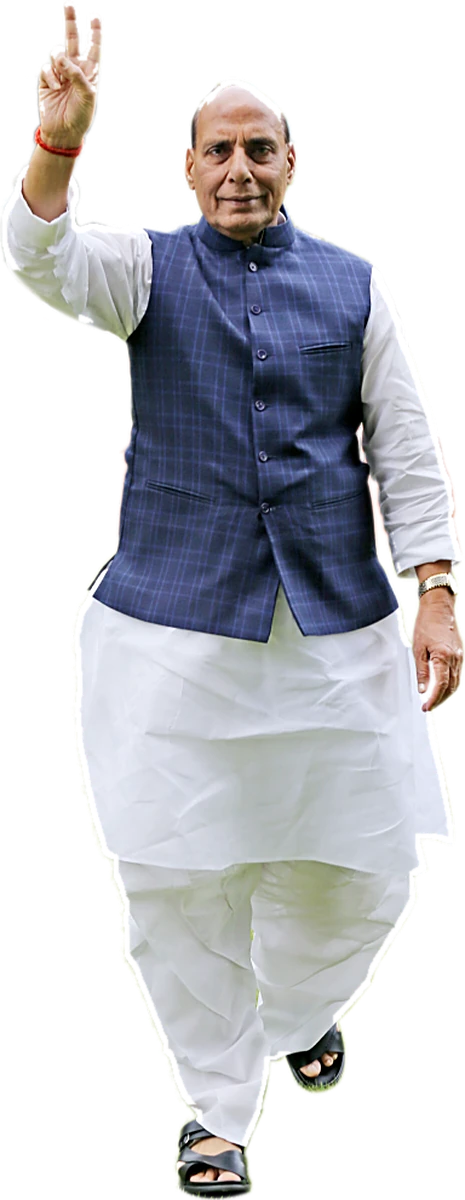
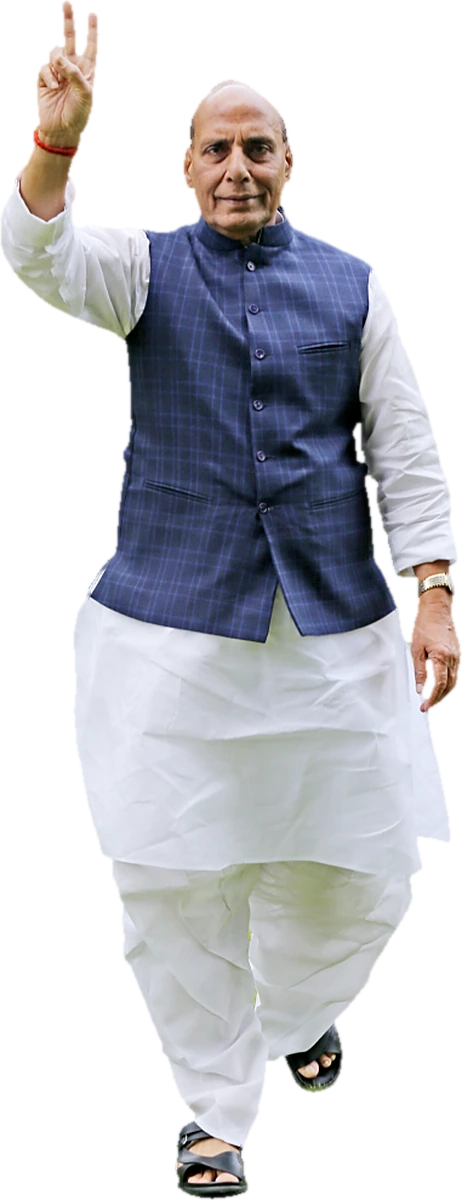
feat: state filter picker, clean leader photos, secrets out of code
- Start screen: the six busiest states on the card plus an all-states panel
  with search (replaces the native drop-down that showed white-on-white)
- Yogi and Rajnath cut-outs redone from the originals (no dark/grey halo,
  no dark spots on the hand); leaders no longer dimmed on the start screen
- MongoDB connection string only from .env / host env vars (hardcoded
  password removed from server.js and import-csv-to-mongo.js)
- TLS certificate checking back on for MongoDB
- Mongo loader keeps "RT @" so retweets are not counted as original posts
- README: state shows and .env setup

diff --git a/app/nazar.html b/app/nazar.html
@@ -64,12 +64,14 @@ button,input{font-family:inherit;color:inherit}
    back Nitin Nabin ji (far left) and Rajnath Singh ji (far right). Positions are the
    centre of each figure; heights keep faces of one row the same size. Nitin ji's photo
    is a half-length shot, so it is smaller and raised, fading out at the waist. */
+/* no brightness dimming and full opacity on the start / glance screens: a see-through
+   or darkened photo over the maroon sky turns faces and clothes brown */
 .hero-side{bottom:2%;z-index:4;opacity:var(--heroSide);
-  -webkit-filter:brightness(.95) drop-shadow(0 0 2rem rgba(255,153,51,.35));filter:brightness(.95) drop-shadow(0 0 2rem rgba(255,153,51,.35))}
+  -webkit-filter:drop-shadow(0 0 2rem rgba(255,153,51,.3));filter:drop-shadow(0 0 2rem rgba(255,153,51,.3))}
 .hero-side img{-webkit-mask-image:linear-gradient(to top,rgba(0,0,0,0) 0%,#000 14%);mask-image:linear-gradient(to top,rgba(0,0,0,0) 0%,#000 14%)}
 .hero-side.l{height:82%;left:26%}
 .hero-side.r{height:82%;left:74%}
-.hero-side.l2,.hero-side.r2{z-index:3;-webkit-filter:brightness(.86) drop-shadow(0 0 1.6rem rgba(255,153,51,.3));filter:brightness(.86) drop-shadow(0 0 1.6rem rgba(255,153,51,.3))}
+.hero-side.l2,.hero-side.r2{z-index:3;-webkit-filter:drop-shadow(0 0 1.6rem rgba(255,153,51,.26));filter:drop-shadow(0 0 1.6rem rgba(255,153,51,.26))}
 .hero-side.l2{height:44%;bottom:31%;left:10%}
 .hero-side.l2 img{-webkit-mask-image:linear-gradient(to top,rgba(0,0,0,0) 0%,#000 22%);mask-image:linear-gradient(to top,rgba(0,0,0,0) 0%,#000 22%)}
 .hero-side.r2{height:73%;left:90%}
@@ -82,7 +84,7 @@ body.choosing .hero-side.r2{height:60%}
 .hero-main,.hero-side{transition:opacity 1.2s ease,height .8s ease,bottom .8s ease}
 /* screens narrower than 3:2 (4:3 TVs, tablets): only the front and middle rows fit */
 @media (max-aspect-ratio:3/2){.hero-side.l2,.hero-side.r2{display:none}.hero-side.l{left:18%}.hero-side.r{left:82%}}
-body.hero-hi{--heroMain:.97;--heroSide:.88}
+body.hero-hi{--heroMain:1;--heroSide:1}
 body.hero-mid{--heroMain:.55;--heroSide:.45}
 
 /* ---------- frame ---------- */
@@ -300,15 +302,50 @@ body.reduced .in-lotus,body.reduced .in-spark,body.reduced .in-burst,body.reduce
 .ch-all:hover,.ch-all:focus{border-color:var(--gold);outline:none;-webkit-transform:translateY(-.3rem);transform:translateY(-.3rem)}
 .ch-one{width:62rem}
 /* state picker (inside the "full picture" card) + the state pill in the header */
-.ch-st{margin-top:1.3rem}
-.ch-st-k{font-size:1.15rem;font-weight:700;letter-spacing:.05rem;color:var(--dim);margin-bottom:.7rem}
-.ch-st-list{display:flex;flex-wrap:wrap;align-items:center}
-.ch-st-list button,.ch-st-list select{margin:0 .6rem .6rem 0;height:3rem;padding:0 1.1rem;border-radius:2rem;border:.08rem solid var(--line);background:rgba(255,255,255,.06);
-  font-family:var(--deva);font-size:1.2rem;font-weight:700;cursor:pointer;color:var(--text)}
-.ch-st-list select{background:#2a0a03;padding-right:.6rem}
-.ch-st-list button:hover,.ch-st-list button:focus,.ch-st-list select:focus{border-color:var(--gold);outline:none;background-color:rgba(255,153,51,.2)}
-.ch-st-list button.on{background:linear-gradient(135deg,#E65100,#FF9933);border-color:transparent}
-.ch-st-list button.all{border-color:rgba(255,200,87,.55);color:var(--gold)}
+.ch-st{margin-top:1.5rem;padding-top:1.3rem;border-top:.08rem solid rgba(255,200,87,.16)}
+.ch-st-k{display:flex;align-items:center;font-family:var(--head),var(--deva);font-weight:700;font-size:1.15rem;letter-spacing:.14rem;text-transform:uppercase;color:var(--gold);margin-bottom:.9rem}
+.ch-st-k svg{width:1.3rem;height:1.3rem;fill:var(--gold);margin-right:.6rem;flex:0 0 auto}
+.ch-st-list{display:grid;grid-template-columns:1fr 1fr;grid-gap:.6rem}
+.st-chip{display:flex;align-items:center;justify-content:space-between;height:3.4rem;padding:0 1rem 0 1.15rem;border-radius:.9rem;
+  border:.08rem solid rgba(255,200,87,.18);background:linear-gradient(180deg,rgba(255,255,255,.08),rgba(255,255,255,.02));
+  color:var(--text);font-family:var(--deva);font-weight:700;font-size:1.25rem;text-align:left;cursor:pointer;white-space:nowrap;overflow:hidden;
+  transition:border-color .15s,background-color .15s,-webkit-transform .15s;transition:border-color .15s,background-color .15s,transform .15s}
+.st-chip span{overflow:hidden;text-overflow:ellipsis}
+.st-chip small{flex:0 0 auto;font-family:var(--head);font-size:1.05rem;font-weight:600;color:var(--dim);margin-left:.6rem}
+.st-chip:hover,.st-chip:focus{border-color:var(--gold);background-color:rgba(255,153,51,.18);outline:none;-webkit-transform:translateY(-.1rem);transform:translateY(-.1rem)}
+.st-chip.on{background:linear-gradient(135deg,#E65100,#FF9933);border-color:transparent}
+.st-chip.on small{color:rgba(255,255,255,.85)}
+.st-chip.all{color:var(--gold)}
+.st-chip.more{grid-column:1 / -1;justify-content:center;border-style:dashed;border-color:rgba(255,200,87,.45);color:var(--gold);background:rgba(255,153,51,.08)}
+.st-chip.more svg{width:1.3rem;height:1.3rem;margin-left:.6rem;fill:none;stroke:var(--gold);stroke-width:2.6;stroke-linecap:round;stroke-linejoin:round}
+/* all-states panel (replaces the browser's own drop-down, which TVs and Windows draw white-on-white) */
+.st-panel{position:fixed;top:0;left:0;right:0;bottom:0;z-index:45;background:rgba(14,4,2,.8);display:flex;align-items:center;justify-content:center}
+.st-box{width:100rem;max-width:94%;max-height:86%;display:flex;flex-direction:column;padding:2.4rem 2.6rem 2.6rem;border-radius:2rem;
+  background:linear-gradient(180deg,#3d1407 0%,#220904 100%);border:.1rem solid rgba(255,200,87,.35);box-shadow:0 3rem 8rem rgba(0,0,0,.65),inset 0 .1rem 0 rgba(255,200,87,.2)}
+.st-top{display:flex;align-items:center;margin-bottom:.6rem}
+.st-top h2{flex:1 1 auto;font-family:var(--deva);font-weight:800;font-size:3rem;line-height:1.1}
+.st-sub{font-size:1.25rem;color:var(--muted);margin-bottom:1.6rem}
+.st-find{width:30rem;height:4.2rem;border-radius:1.1rem;border:.1rem solid var(--line);background:rgba(0,0,0,.35);padding:0 1.3rem;font-size:1.5rem;color:var(--text);outline:none;margin-right:1rem}
+.st-find:focus{border-color:var(--gold)}
+.st-x{width:4.2rem;height:4.2rem;border-radius:50%;border:.1rem solid var(--line);background:rgba(255,255,255,.06);cursor:pointer;display:flex;align-items:center;justify-content:center;flex:0 0 auto}
+.st-x svg{width:1.8rem;height:1.8rem;fill:none;stroke:var(--text);stroke-width:2.4;stroke-linecap:round}
+.st-x:hover,.st-x:focus{border-color:var(--gold);outline:none}
+/* rows never shrink below their content (an overflow:hidden item may otherwise collapse when the list is long) */
+.st-grid{flex:1 1 auto;min-height:0;overflow-y:auto;display:grid;grid-template-columns:repeat(4,1fr);grid-auto-rows:max-content;align-content:start;grid-gap:.9rem;padding:.2rem .4rem .2rem .2rem}
+.st-item{position:relative;overflow:hidden;text-align:left;padding:1.15rem 1.3rem 1.4rem;border-radius:1.1rem;cursor:pointer;color:var(--text);
+  border:.08rem solid rgba(255,200,87,.16);background:rgba(255,255,255,.05);transition:border-color .15s,background-color .15s}
+.st-item b{display:block;font-family:var(--deva);font-weight:700;font-size:1.55rem;white-space:nowrap;overflow:hidden;text-overflow:ellipsis}
+.st-item span{display:block;font-size:1.05rem;color:var(--dim);margin-top:.25rem}
+.st-item i{position:absolute;left:0;bottom:0;height:.3rem;background:linear-gradient(90deg,#E65100,#FFC857)}
+.st-item:hover,.st-item:focus{border-color:var(--gold);background-color:rgba(255,153,51,.16);outline:none}
+.st-item.on{border-color:var(--gold);background-color:rgba(255,153,51,.26)}
+.st-item.all b{color:var(--gold)}
+.st-grid::-webkit-scrollbar{width:.6rem}
+.st-grid::-webkit-scrollbar-track{background:rgba(255,255,255,.04);border-radius:.6rem}
+.st-grid::-webkit-scrollbar-thumb{background:rgba(255,200,87,.45);border-radius:.6rem}
+.st-empty{grid-column:1 / -1;font-size:1.4rem;color:var(--dim);padding:1rem 0}
+body.portrait .st-grid{grid-template-columns:1fr 1fr} body.portrait .st-find{width:auto;flex:1 1 auto;min-width:0}
+body.portrait .st-top{flex-wrap:wrap} body.portrait .st-top h2{width:100%;margin-bottom:1rem}
 .stpill{border-color:rgba(255,200,87,.6);background:rgba(255,153,51,.22);color:#FFE3A3}
 .stpill svg{width:1.4rem;height:1.4rem;margin-right:.6rem;fill:var(--gold);flex:0 0 auto}
 .ch-k{font-family:var(--head);font-weight:700;font-size:1.3rem;letter-spacing:.2rem;text-transform:uppercase;color:var(--gold)}
@@ -607,7 +644,7 @@ body.portrait .in-stats{flex-direction:column}
   <div class="ch-cards">
     <div class="ch-card ch-all" id="chAll" tabindex="0" role="button">
       <div class="ch-k" id="chAllK"></div><div class="ch-t" id="chAllT"></div><div class="ch-d" id="chAllD"></div>
-      <div class="ch-st hidden" id="chSt"><div class="ch-st-k" id="chStK"></div><div class="ch-st-list" id="chStList"></div></div>
+      <div class="ch-st hidden" id="chSt"><div class="ch-st-k"><svg viewBox="0 0 24 24"><path d="M12 2C8 2 5 5.1 5 9c0 5.3 7 13 7 13s7-7.7 7-13c0-3.9-3-7-7-7zm0 9.6a2.6 2.6 0 1 1 0-5.2 2.6 2.6 0 0 1 0 5.2z"/></svg><span id="chStK"></span></div><div class="ch-st-list" id="chStList"></div></div>
       <div class="ch-go"><svg class="ch-ring" viewBox="0 0 36 36"><circle cx="18" cy="18" r="15" stroke="rgba(255,255,255,.15)"/><circle id="chRing" cx="18" cy="18" r="15" stroke="#FFC857" stroke-dasharray="94.25" stroke-dashoffset="0" transform="rotate(-90 18 18)"/></svg><span id="chGo"></span></div>
     </div>
     <div class="ch-card ch-one">
@@ -617,6 +654,13 @@ body.portrait .in-stats{flex-direction:column}
       <div class="ch-list" id="chList"></div>
       <div class="ch-recent" id="chRecent"></div>
       <div class="ch-hint" id="chHint"></div>
+    </div>
+  </div>
+  <div class="st-panel hidden" id="stPanel" role="dialog" aria-modal="true" aria-labelledby="stTitle">
+    <div class="st-box">
+      <div class="st-top"><h2 id="stTitle"></h2><input class="st-find" id="stFind" type="text" autocomplete="off"><button class="st-x" id="stClose" type="button" aria-label="Close"><svg viewBox="0 0 24 24"><path d="M6 6l12 12M18 6L6 18"/></svg></button></div>
+      <div class="st-sub" id="stSub"></div>
+      <div class="st-grid" id="stGrid"></div>
     </div>
   </div>
 </div>
@@ -677,9 +721,9 @@ body.portrait .in-stats{flex-direction:column}
   var HERO = {
     heroM: ['/live/img/leaders/modi-standing.webp', 'Narendra Modi'],
     heroL: ['/live/img/leaders/amit-shah-standing.webp', 'Amit Shah'],
-    heroR: ['/live/img/leaders/yogi-standing-v2.webp', 'Yogi Adityanath'],
+    heroR: ['/live/img/leaders/yogi-standing-v2.webp?v=3', 'Yogi Adityanath'],
     heroL2: ['/live/img/leaders/nitin-nabin-standing.webp?v=2', 'Nitin Nabin'],
-    heroR2: ['/live/img/leaders/rajnath-singh-standing.webp', 'Rajnath Singh']
+    heroR2: ['/live/img/leaders/rajnath-singh-standing.webp?v=3', 'Rajnath Singh']
   };
   var BJP_LOGO = '/live/img/p/BJP';
   var LOTUS = '<svg viewBox="0 0 100 100"><g transform="translate(50,78)" fill="#fff"><path d="M0,0 C-8,-22 -5,-44 0,-54 C5,-44 8,-22 0,0Z"/><path d="M0,0 C-8,-22 -5,-44 0,-54 C5,-44 8,-22 0,0Z" transform="rotate(-30) scale(.9)"/><path d="M0,0 C-8,-22 -5,-44 0,-54 C5,-44 8,-22 0,0Z" transform="rotate(30) scale(.9)"/><path d="M0,0 C-8,-22 -5,-44 0,-54 C5,-44 8,-22 0,0Z" transform="rotate(-60) scale(.75)"/><path d="M0,0 C-8,-22 -5,-44 0,-54 C5,-44 8,-22 0,0Z" transform="rotate(60) scale(.75)"/></g></svg>';
@@ -819,7 +863,14 @@ body.portrait .in-stats{flex-direction:column}
     'Andaman and Nicobar': 'अंडमान और निकोबार', 'Lakshadweep': 'लक्षद्वीप', 'Dadra and Nagar Haveli and Daman and Diu': 'दादरा नगर हवेली और दमन दीव'
   };
   T.en.stPick = 'Or follow one state'; T.hi.stPick = 'या एक राज्य पर नज़र रखें';
-  T.en.stMore = 'More states…'; T.hi.stMore = 'और राज्य…';
+  T.en.stMore = 'See all {n} states'; T.hi.stMore = 'सभी {n} राज्य देखें';
+  T.en.stTitle = 'Choose a state'; T.hi.stTitle = 'राज्य चुनें';
+  T.en.stSub = 'Nazar will show only this state — its parties, leaders, posts and news. Busiest first.';
+  T.hi.stSub = 'नज़र सिर्फ़ इसी राज्य को दिखाएगा — इसकी पार्टियाँ, नेता, पोस्ट और ख़बरें। सबसे सक्रिय पहले।';
+  T.en.stFind = 'Search a state…'; T.hi.stFind = 'राज्य खोजें…';
+  T.en.stPosts = '{n} posts in the data'; T.hi.stPosts = 'डेटा में {n} पोस्ट';
+  T.en.stNone = 'No state with that name in this data.'; T.hi.stNone = 'इस डेटा में इस नाम का कोई राज्य नहीं।';
+  T.en.stAllSub = 'Back to the whole country'; T.hi.stAllSub = 'पूरे देश पर वापस';
   T.en.stAll = 'All India'; T.hi.stAll = 'पूरा भारत';
   if (STATE) {
     var stHi = STATE_HI[STATE] || STATE;
@@ -1441,9 +1492,10 @@ body.portrait .in-stats{flex-direction:column}
     $('chRing').setAttribute('stroke-dashoffset', String(94.25 * (1 - (chLeft || 0) / CHOOSER_AUTO_S)));
     if (chLeft !== null) chLeft--;
   }
-  /* state picker: the busiest states as buttons, the rest in a list. Choosing one
-     reopens Nazar for that state (every screen, the search and the news). */
-  var stList = null, ST_TOP = 8;
+  /* state picker: the six busiest states on the card, every state in a panel with
+     search. Choosing one reopens Nazar for that state (every screen, the search and
+     the news). No native <select>: its pop-up list ignores the page's colours. */
+  var stList = null, ST_TOP = 6;
   function loadStates() {
     if (stList || DEMO || state.stP) { if (stList) renderStates(); return; }
     state.stP = fetch('/api/live-states', { credentials: 'same-origin', cache: 'no-store' })
@@ -1455,29 +1507,69 @@ body.portrait .in-stats{flex-direction:column}
     var keep = location.search.replace(/^\?/, '').split('&').filter(function (kv) { return kv && !/^(scope|h|mode)=/.test(kv); });
     location.href = location.pathname + '?' + keep.concat(sc === 'all' ? [] : ['scope=' + encodeURIComponent(sc)]).concat(['mode=all']).join('&');
   }
+  function pickScope(sc) { if (sc === 'st:' + STATE) { closeStates(); startShow('all'); } else goScope(sc); }
   function renderStates() {
     if (!stList) return;
-    var top = stList.slice(0, ST_TOP), rest = stList.slice(ST_TOP);
-    if (STATE && !top.some(function (s) { return s.state === STATE; })) top.push({ state: STATE });
-    var h = (STATE ? '<button type="button" class="all" data-sc="all">' + esc(t('stAll')) + '</button>' : '')
-      + top.map(function (s) { return '<button type="button" data-sc="st:' + esc(s.state) + '"' + (s.state === STATE ? ' class="on"' : '') + '>' + esc(stName(s.state)) + '</button>'; }).join('');
-    if (rest.length) {
-      h += '<select id="chStSel"><option value="">' + esc(t('stMore')) + '</option>'
-        + rest.slice().sort(function (a, b) { return stName(a.state) < stName(b.state) ? -1 : 1; })
-            .map(function (s) { return '<option value="st:' + esc(s.state) + '">' + esc(stName(s.state)) + '</option>'; }).join('') + '</select>';
-    }
+    var top = stList.slice(0, ST_TOP);
+    if (STATE && !top.some(function (s) { return s.state === STATE; })) top = top.slice(0, ST_TOP - 1).concat(stList.filter(function (s) { return s.state === STATE; }));
+    if (STATE) top = [{ all: true }].concat(top.slice(0, ST_TOP - 1));
+    var h = top.map(function (s) {
+      if (s.all) return '<button type="button" class="st-chip all" data-sc="all"><span>' + esc(t('stAll')) + '</span></button>';
+      return '<button type="button" class="st-chip' + (s.state === STATE ? ' on' : '') + '" data-sc="st:' + esc(s.state) + '"><span>' + esc(stName(s.state)) + '</span><small>' + esc(fmtShort(s.posts)) + '</small></button>';
+    }).join('');
+    h += '<button type="button" class="st-chip more" id="chStMore"><span>' + esc(fill(t('stMore'), { n: stList.length })) + '</span><svg viewBox="0 0 24 24"><path d="M9 6l6 6-6 6"/></svg></button>';
     $('chStK').textContent = t('stPick'); $('chStList').innerHTML = h; $('chSt').className = 'ch-st';
-    function stopIt(e) { e.stopPropagation(); holdChooser(); }
     [].forEach.call($('chStList').querySelectorAll('button'), function (b) {
-      b.onclick = function (e) { stopIt(e); var sc = b.getAttribute('data-sc'); if (sc === 'st:' + STATE) startShow('all'); else goScope(sc); };
-      b.onkeydown = function (e) { e.stopPropagation(); };
+      b.onclick = function (e) {
+        e.stopPropagation(); holdChooser();
+        if (b.id === 'chStMore') openStates(); else pickScope(b.getAttribute('data-sc'));
+      };
+      b.onkeydown = function (e) { e.stopPropagation(); };          // Enter here must not start the All-India card
     });
-    var sel = $('chStSel');
-    if (sel) {
-      sel.onclick = stopIt; sel.onkeydown = function (e) { e.stopPropagation(); holdChooser(); };
-      sel.onchange = function () { if (sel.value) goScope(sel.value); };
-    }
+    if ($('stPanel').className.indexOf('hidden') < 0) renderStateGrid();
   }
+  function openStates() {
+    if (!stList) return;
+    holdChooser();
+    $('stTitle').textContent = t('stTitle'); $('stSub').textContent = t('stSub');
+    $('stFind').placeholder = t('stFind'); $('stFind').value = '';
+    $('stPanel').className = 'st-panel'; renderStateGrid();
+    setTimeout(function () { try { $('stFind').focus(); } catch (e) {} }, 50);
+  }
+  function closeStates() { $('stPanel').className = 'st-panel hidden'; }
+  function renderStateGrid() {
+    $('stTitle').textContent = t('stTitle'); $('stSub').textContent = t('stSub'); $('stFind').placeholder = t('stFind');
+    var v = $('stFind').value.trim().toLowerCase(), max = stList.length ? stList[0].posts : 1;
+    var list = stList.filter(function (s) { return !v || s.state.toLowerCase().indexOf(v) >= 0 || (STATE_HI[s.state] || '').indexOf(v) >= 0; });
+    var h = (STATE && !v ? '<button type="button" class="st-item all" data-sc="all"><b>' + esc(t('stAll')) + '</b><span>' + esc(t('stAllSub')) + '</span></button>' : '')
+      + list.map(function (s) {
+        return '<button type="button" class="st-item' + (s.state === STATE ? ' on' : '') + '" data-sc="st:' + esc(s.state) + '"><b>' + esc(stName(s.state)) + '</b>'
+          + '<span>' + esc(fill(t('stPosts'), { n: fmtInt(s.posts) })) + '</span><i style="width:' + Math.max(3, Math.round(100 * s.posts / max)) + '%"></i></button>';
+      }).join('');
+    $('stGrid').innerHTML = h || '<div class="st-empty">' + esc(t('stNone')) + '</div>';
+    [].forEach.call($('stGrid').querySelectorAll('.st-item'), function (b) { b.onclick = function () { pickScope(b.getAttribute('data-sc')); }; });
+  }
+  $('stFind').addEventListener('input', renderStateGrid);
+  $('stFind').addEventListener('keydown', function (e) {
+    e.stopPropagation();
+    if (e.key === 'Escape' || e.key === 'Esc') closeStates();
+    else if (e.key === 'Enter') { var f = $('stGrid').querySelector('.st-item'); if (f) f.click(); }
+    else if (e.key === 'ArrowDown' || e.key === 'Down') { var g = $('stGrid').querySelector('.st-item'); if (g) { g.focus(); e.preventDefault(); } }
+  });
+  /* arrow keys move through the grid (TV remotes), Escape closes */
+  $('stGrid').addEventListener('keydown', function (e) {
+    var items = [].slice.call($('stGrid').querySelectorAll('.st-item')), i = items.indexOf(document.activeElement);
+    if (e.key === 'Escape' || e.key === 'Esc') { closeStates(); return; }
+    if (i < 0) return;
+    var cols = document.body.className.indexOf('portrait') >= 0 ? 2 : 4, k = e.key, j = i;
+    if (k === 'ArrowRight' || k === 'Right') j = i + 1; else if (k === 'ArrowLeft' || k === 'Left') j = i - 1;
+    else if (k === 'ArrowDown' || k === 'Down') j = i + cols; else if (k === 'ArrowUp' || k === 'Up') j = i - cols; else return;
+    e.preventDefault();
+    if (j < 0) { $('stFind').focus(); return; }
+    if (items[Math.min(j, items.length - 1)]) items[Math.min(j, items.length - 1)].focus();
+  });
+  $('stClose').onclick = closeStates;
+  $('stPanel').addEventListener('click', function (e) { if (e.target === $('stPanel')) closeStates(); });
   function holdChooser() { if (chLeft !== null) { chLeft = null; clearInterval(chT); $('chGo').textContent = t('chGoNow'); $('chRing').setAttribute('stroke-dashoffset', '0'); } }
   function stopChooser() { clearInterval(chT); chT = null; }
   function doSearch() {

diff --git a/server.js b/server.js
@@ -53,13 +53,11 @@ LIVE.C.BASE_DAYS = 7;
 LIVE.C.BASE_MIN_DAYS = 3;
 LIVE.C.BREAK_BASE_DAYS = 6;
 
-var MONGO_URI = process.env.MONGODB_URI || 'mongodb+srv://harshit22oct_db_user:harshit22oct5094@cluster0.hjn4toa.mongodb.net/';
+/* The connection string (with its password) comes ONLY from .env or the host's
+   environment variables -- never from this file, which goes to GitHub. */
+var MONGO_URI = process.env.MONGODB_URI || '';
 var DB_NAME = process.env.DB_NAME || 'nazar';
 var COLL_NAME = process.env.COLL_NAME || 'tweets';
-
-if (process.env.NODE_TLS_REJECT_UNAUTHORIZED === undefined) {
-  process.env.NODE_TLS_REJECT_UNAUTHORIZED = '0';
-}
 
 /* ------------------------------------------------------------ Data loading (Mongo / CSV) */
 var KEEP = ['Handle', 'Tweet URL', 'Tweet ID', 'Tweet Date', 'Tweet Text', 'Total Comments', 'Total Likes',
@@ -92,6 +90,7 @@ function readCsv(file, onRow) {
 }
 
 async function loadFromMongo() {
+  if (!MONGO_URI) throw new Error('MONGODB_URI is not set -- put it in .env (see .env.example) or in the host\'s environment variables');
   var { MongoClient } = require('mongodb');
   console.log('  Connecting to MongoDB Atlas (' + DB_NAME + '.' + COLL_NAME + ')...');
   var client = new MongoClient(MONGO_URI);
@@ -112,7 +111,7 @@ async function loadFromMongo() {
     var doc = await cursor.next();
     // Memory optimization: retweets only need 'RT' marker as their text is never displayed
     if (doc['Tweet Text'] && doc['Tweet Text'].startsWith('RT @')) {
-      doc['Tweet Text'] = 'RT';
+      doc['Tweet Text'] = 'RT @';      // must still start with "RT @": that is how live_lib (HA.isRetweet) tells a re-post from an original
     }
     var cs = LIVE.stateOf(doc.State);
     if (cs) doc.State = cs;

diff --git a/import-csv-to-mongo.js b/import-csv-to-mongo.js
@@ -1,7 +1,6 @@
 // import-csv-to-mongo.js
 // CSV data ko MongoDB Atlas mein import karta hai
 'use strict';
-process.env.NODE_TLS_REJECT_UNAUTHORIZED = '0'; // SSL cert bypass
 
 var fs = require('fs');
 var path = require('path');
@@ -24,7 +23,9 @@ try {
   }
 } catch (e) {}
 
-var MONGO_URI = process.env.MONGODB_URI || 'mongodb+srv://harshit22oct_db_user:harshit22oct5094@cluster0.hjn4toa.mongodb.net/';
+// password sirf .env se aata hai -- is file me kabhi mat likho (ye GitHub par jaati hai)
+var MONGO_URI = process.env.MONGODB_URI || '';
+if (!MONGO_URI) { console.error('MONGODB_URI .env me nahi mila -- .env.example dekho.'); process.exit(1); }
 var DB_NAME   = process.env.DB_NAME || 'nazar';
 var COLL_NAME = process.env.COLL_NAME || 'tweets';
 var DATA      = path.join(__dirname, 'data');

diff --git a/README.md b/README.md
@@ -15,7 +15,8 @@ The Pulse project is not touched by this folder.
 ## MongoDB & Cloud Deployment
 - **MongoDB Atlas Integration**: Data is stored in MongoDB Atlas (`nazar.tweets`).
 - When running without local CSV files (e.g., deployed to **Railway**, **Render**, or **Vercel**), `server.js` automatically connects to MongoDB Atlas.
-- Configure `.env` with:
+- The connection string is read **only** from `.env` locally, or from the hosting site's environment variables. Never write it in a `.js` file, because those go to GitHub. `.env` is in `.gitignore`.
+- Configure `.env` (copy `.env.example`) with:
   ```env
   MONGODB_URI=your_mongodb_connection_string
   USE_MONGO=true
@@ -29,7 +30,8 @@ Useful links:
 
 | Link | What it shows |
 |---|---|
-| `/live` | Start screen: choose All India or one leader |
+| `/live` | Start screen: choose All India, one state, or one leader |
+| `/live?scope=st:Bihar` | A state show: every screen, the leader search and the news are about that state only |
 | `/live?mode=all` | Goes straight to the All-India show |
 | `/live?h=myogiadityanath` | A leader's personal channel (any handle) |
 | `/live?kiosk=1` | Hides the buttons (for a TV that just plays) |
@@ -52,13 +54,24 @@ Keys: ← → change screen · Space pauses · F goes full screen · L switches 
 
 ## What is in the folder
 - `server.js` is the small web server. It loads the CSVs into memory and answers the page's three data calls.
-- `app/nazar.html` is the Nazar page. It is a copy of `DASHBOARD/live_monitor.html` with three small additions:
-  - the recorded-data banner;
+- `app/nazar.html` is the Nazar page. It started as a copy of `DASHBOARD/live_monitor.html`. It has these additions:
+  - the recorded-data banner (search for `PROTO`);
   - no "Back to dashboard" button;
-  - the latest-post time shown as a date.
-- `app/live_lib.js`, `ha_lib.js`, `news_lib.js` and `mapping_lib.js` are copied unchanged from Pulse. All the counting rules are the same as in Pulse.
+  - the latest-post time shown as a date;
+  - the **state filter** (search for `STATE`):
+    - the state picker on the start screen and the all-states panel with search;
+    - the state label in the header;
+    - the state glowing on the intro map;
+    - state wording in the titles;
+  - brighter leader photos on the start screen.
+- `app/ha_lib.js`, `news_lib.js` and `mapping_lib.js` are copied unchanged from Pulse.
+  - `app/live_lib.js` is the same as Pulse, except that any state can be a scope (`st:<State>`), and the "most active state" sentence is skipped inside a state.
+  - All the counting rules are the same as in Pulse.
+- In `server.js`:
+  - `/api/live-states` lists the states that have at least 200 posts in the data;
+  - a state's news ticker shows that state's own media posts first, then national ones.
 - `app/data/handle_master.json` is the leader list. Search, party, constituency and rivals come from it.
 - `app/live_assets/` holds the photos and party logos. See `leaders/ATTRIBUTION.md`.
   - Several leader photos were supplied by the project owner. Their usage rights must be confirmed before any public showing.
 
-Copied from Pulse on 22 Oct 2026. If Nazar changes in Pulse, copy `live_monitor.html` again as `app/nazar.html` and re-apply the three additions. Search for `PROTO` in the page.
+Copied from Pulse on 22 Oct 2026. If Nazar changes in Pulse, do not overwrite `app/nazar.html`. Copy over only the change you need; the prototype's own additions are listed above.
